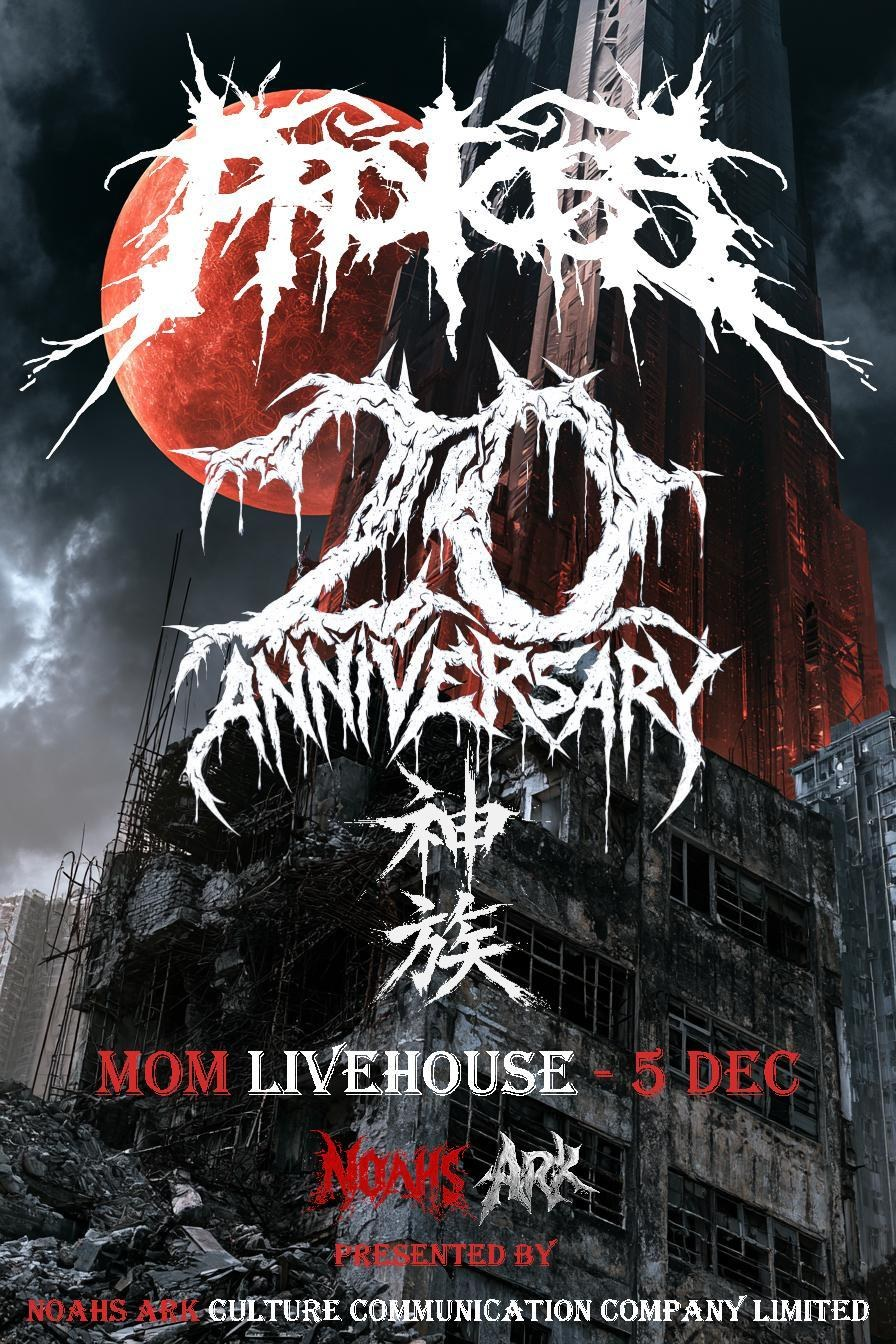
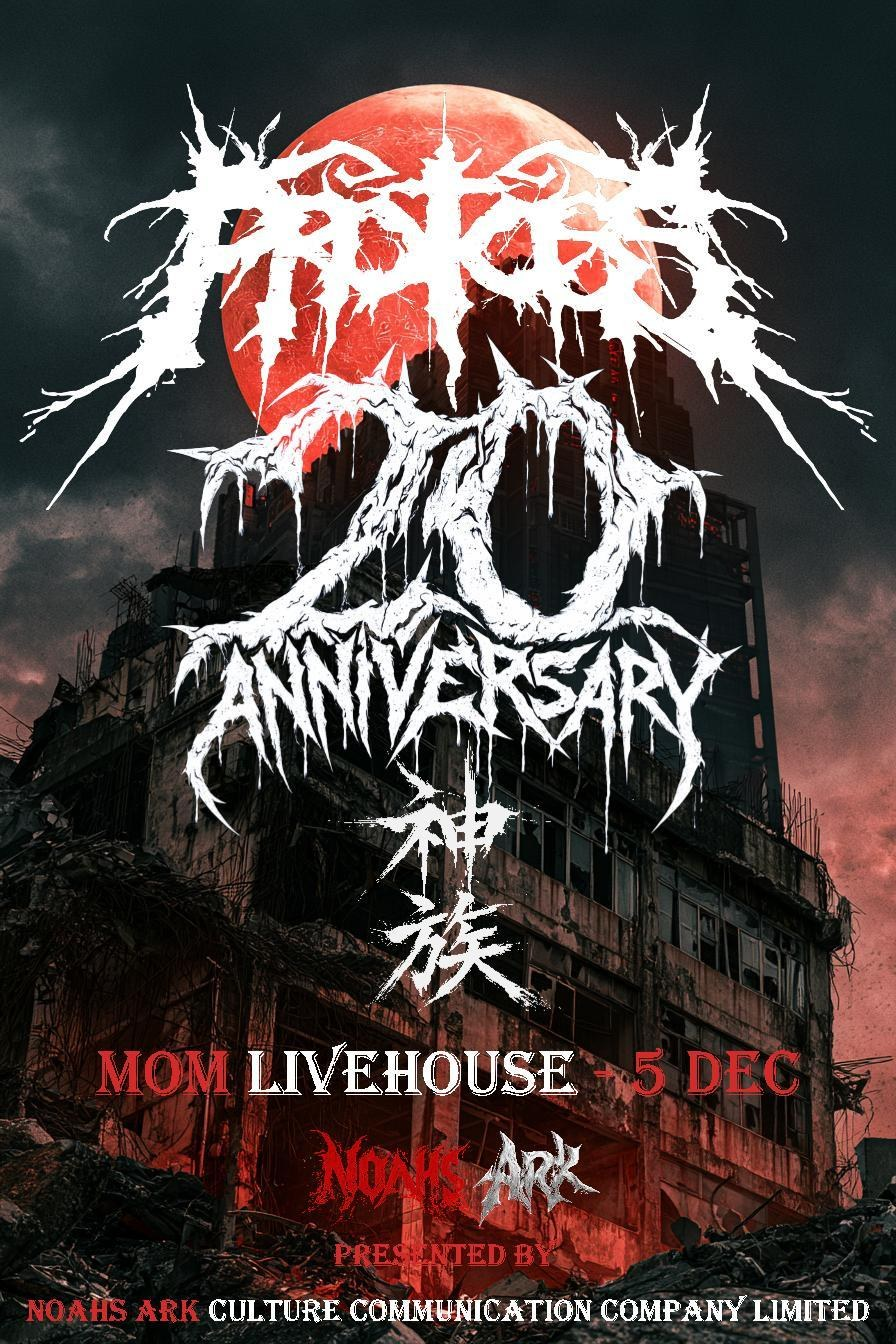
Refresh PROTOS 20th poster (user revision)
Replace protoss-poster jpg/webp with latest art; bump cache-bust to v=20260921-poster2. Dates/prices unchanged.

diff --git a/index.html b/index.html
@@ -396,8 +396,8 @@
       <div class="md:flex">
         <a class='upcoming-card__poster md:w-2/5 border-b md:border-b-0 md:border-r border-zinc-700' href='/tickets-noah-2-5'>
           <picture>
-            <source srcset="assets/protoss-poster.webp?v=20260921-poster" type="image/webp" />
-            <img src="assets/protoss-poster.jpg?v=20260921-poster" alt="PROTOSS 20th Anniversary — MOM Livehouse 5 Dec" width="896" height="1344" loading="lazy" decoding="async" />
+            <source srcset="assets/protoss-poster.webp?v=20260921-poster2" type="image/webp" />
+            <img src="assets/protoss-poster.jpg?v=20260921-poster2" alt="PROTOSS 20th Anniversary — MOM Livehouse 5 Dec" width="896" height="1344" loading="lazy" decoding="async" />
           </picture>
         </a>
         <div class="md:w-3/5 p-8 md:p-10 flex flex-col justify-center">

diff --git a/tickets-noah-2-5.html b/tickets-noah-2-5.html
@@ -16,7 +16,7 @@
   </style>
   <link rel="icon" type="image/png" sizes="32x32" href="assets/favicon-32.png" />
   <link rel="apple-touch-icon" href="assets/favicon-512.png" />
-  <meta property="og:image" content="https://noahsarkhk2005.netlify.app/assets/protoss-poster.jpg?v=20260921-poster" />
+  <meta property="og:image" content="https://noahsarkhk2005.netlify.app/assets/protoss-poster.jpg?v=20260921-poster2" />
 </head>
 <body class="bg-metal-950 text-zinc-200 min-h-screen">
 
